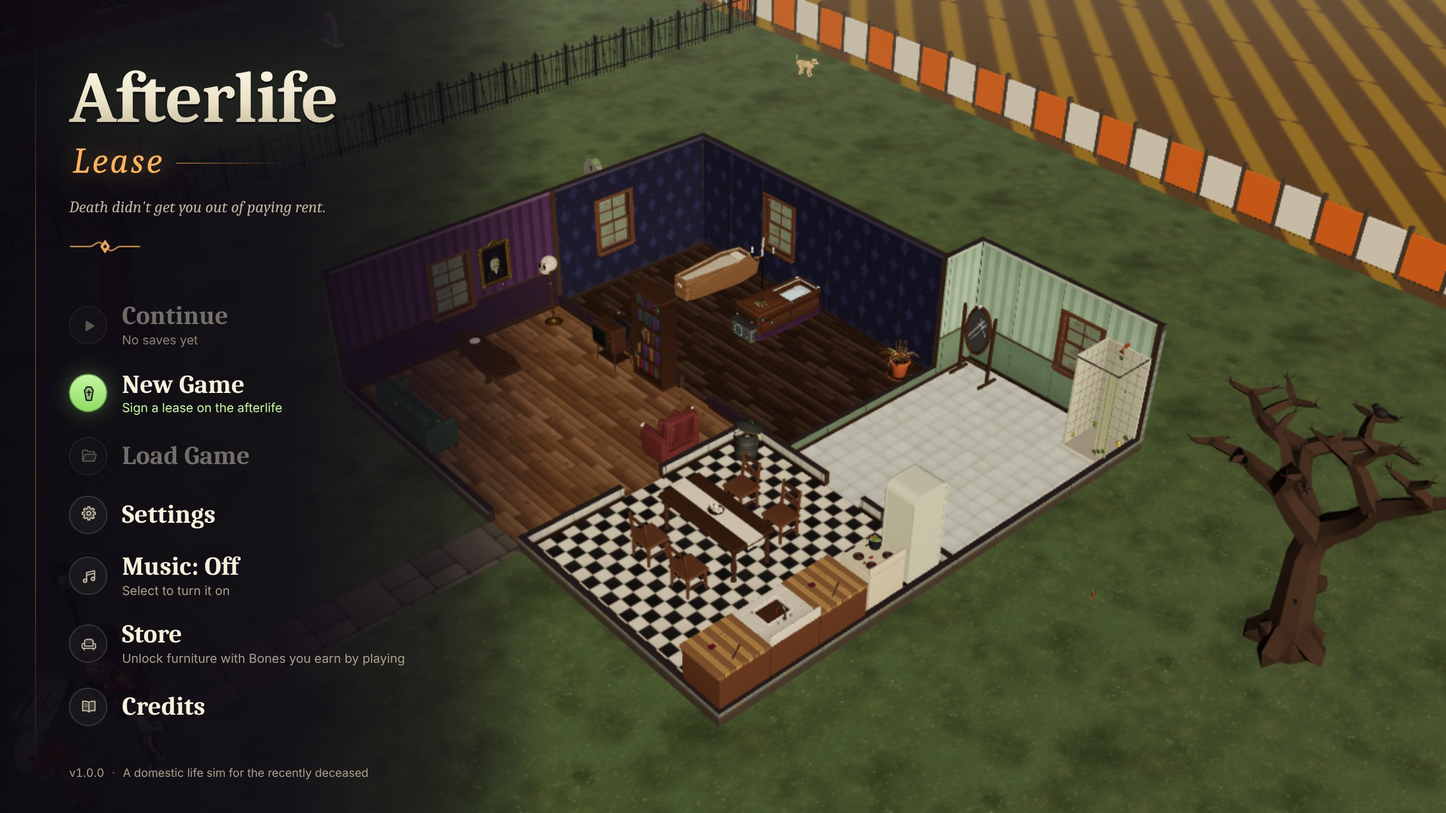
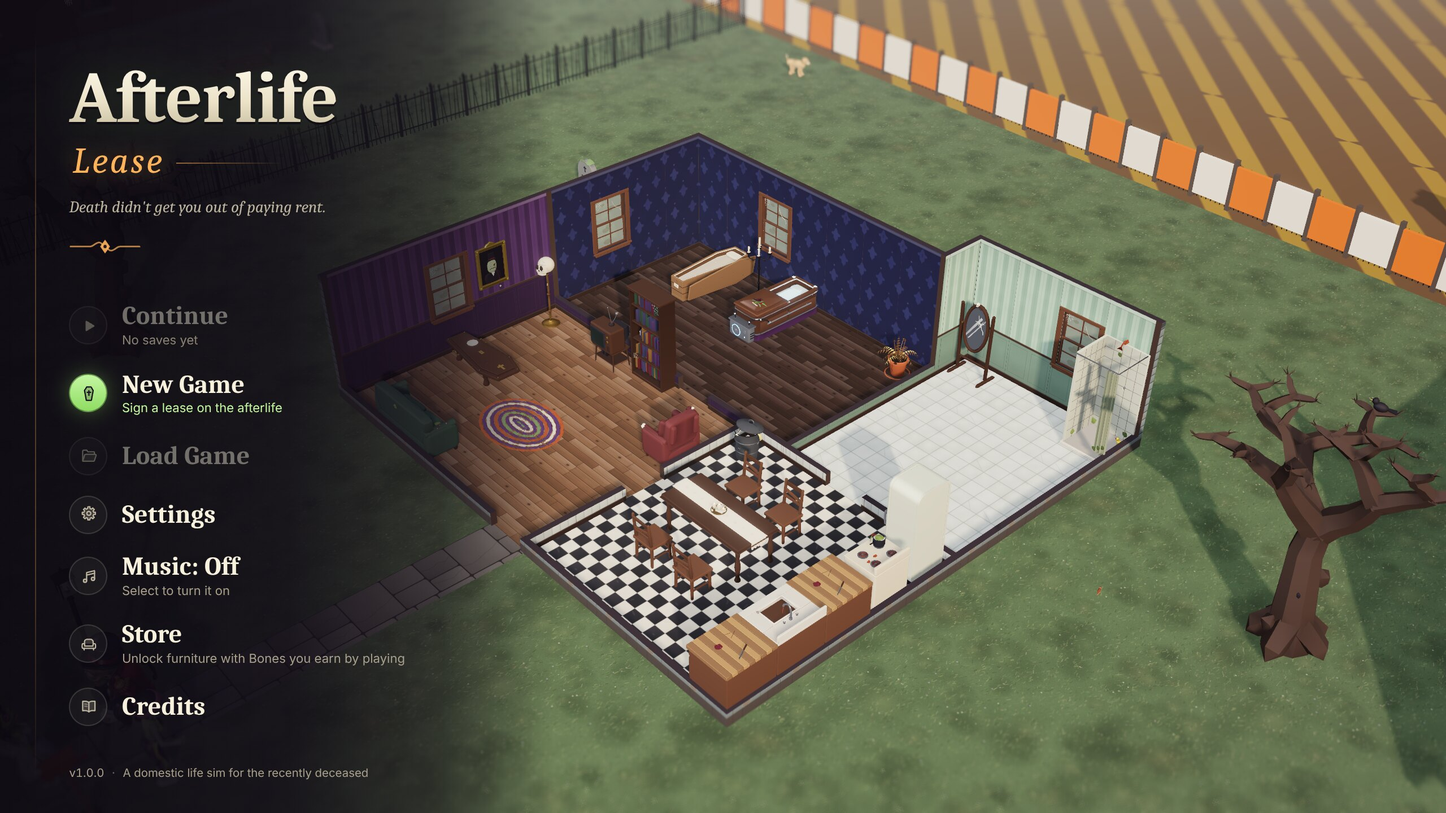
README pictures retaken with the premium zombies
Taken by scripts/capture-screenshots.mjs on the High graphics level, with
tutorial tips off and the camera brought in on the household. The first
picture is now the over-the-shoulder view.

diff --git a/README.md b/README.md
@@ -6,7 +6,7 @@ A life sim where **you play the zombies**. Run a household of the undead in the 
 dinner parties, pets and home décor, while your zombies slowly rot and keeping them fresh competes with every other
 expense. It runs in a browser and as a Windows desktop app, entirely on your own device.
 
-![The home view: a household of four premium zombies](.github/assets/03-home.jpg)
+![Over the shoulder of a premium zombie at home](.github/assets/06-over-the-shoulder.jpg)
 
 *Pictured: the premium zombies. They are store unlocks marked "coming soon" and cannot be bought yet. Today you can
 preview them in Create-a-Zombie and play with any of the 25 free sculpted zombies, or build your own piece by piece.*
@@ -20,8 +20,8 @@ world, fixes or whole new systems. Start with [CONTRIBUTING.md](CONTRIBUTING.md)
 |---|---|
 | ![Create-a-Zombie](.github/assets/02-create-a-zombie.jpg) | ![Buy mode](.github/assets/05-buy-mode.jpg) |
 | Create-a-Zombie: 31 zombies, with a premium one previewed | Buy mode: furnish the place |
-| ![Over the shoulder](.github/assets/06-over-the-shoulder.jpg) | ![Walls up](.github/assets/04-walls-up.jpg) |
-| Follow a zombie over the shoulder | The house with its walls up |
+| ![The household outside](.github/assets/03-home.jpg) | ![Walls up](.github/assets/04-walls-up.jpg) |
+| A household of four premium zombies | The house with its walls up |
 
 ## What makes it different
 
